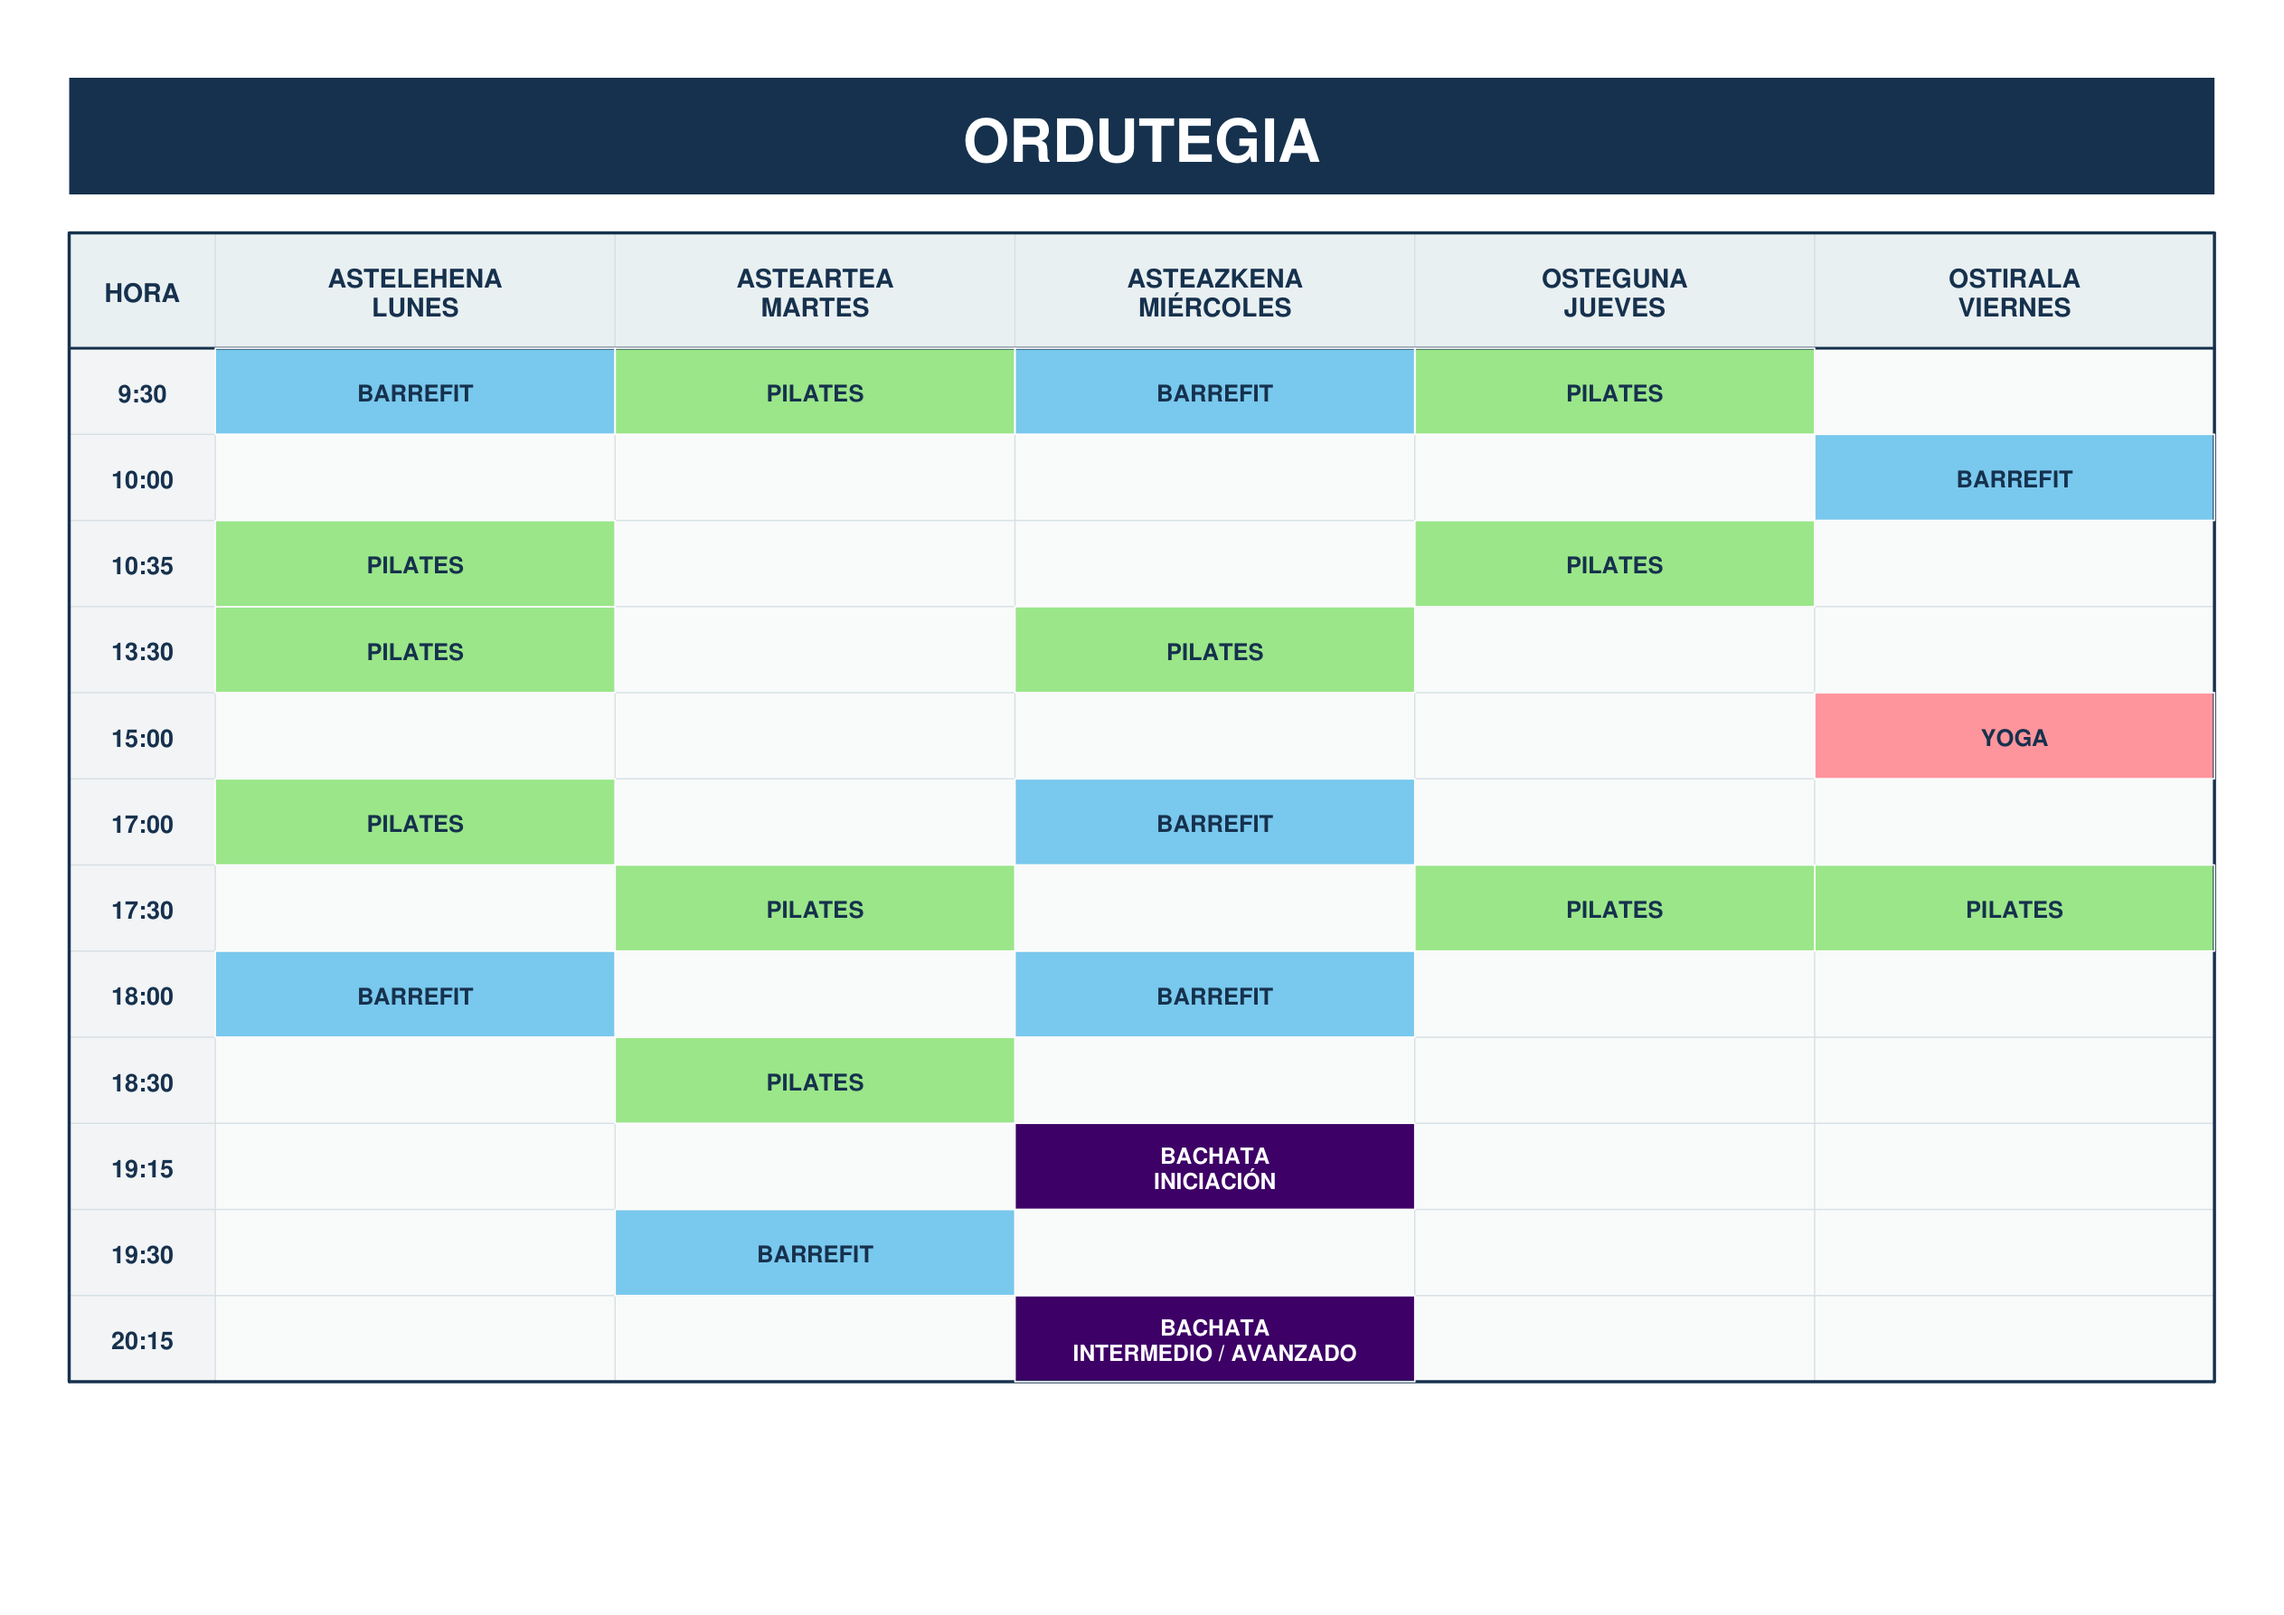
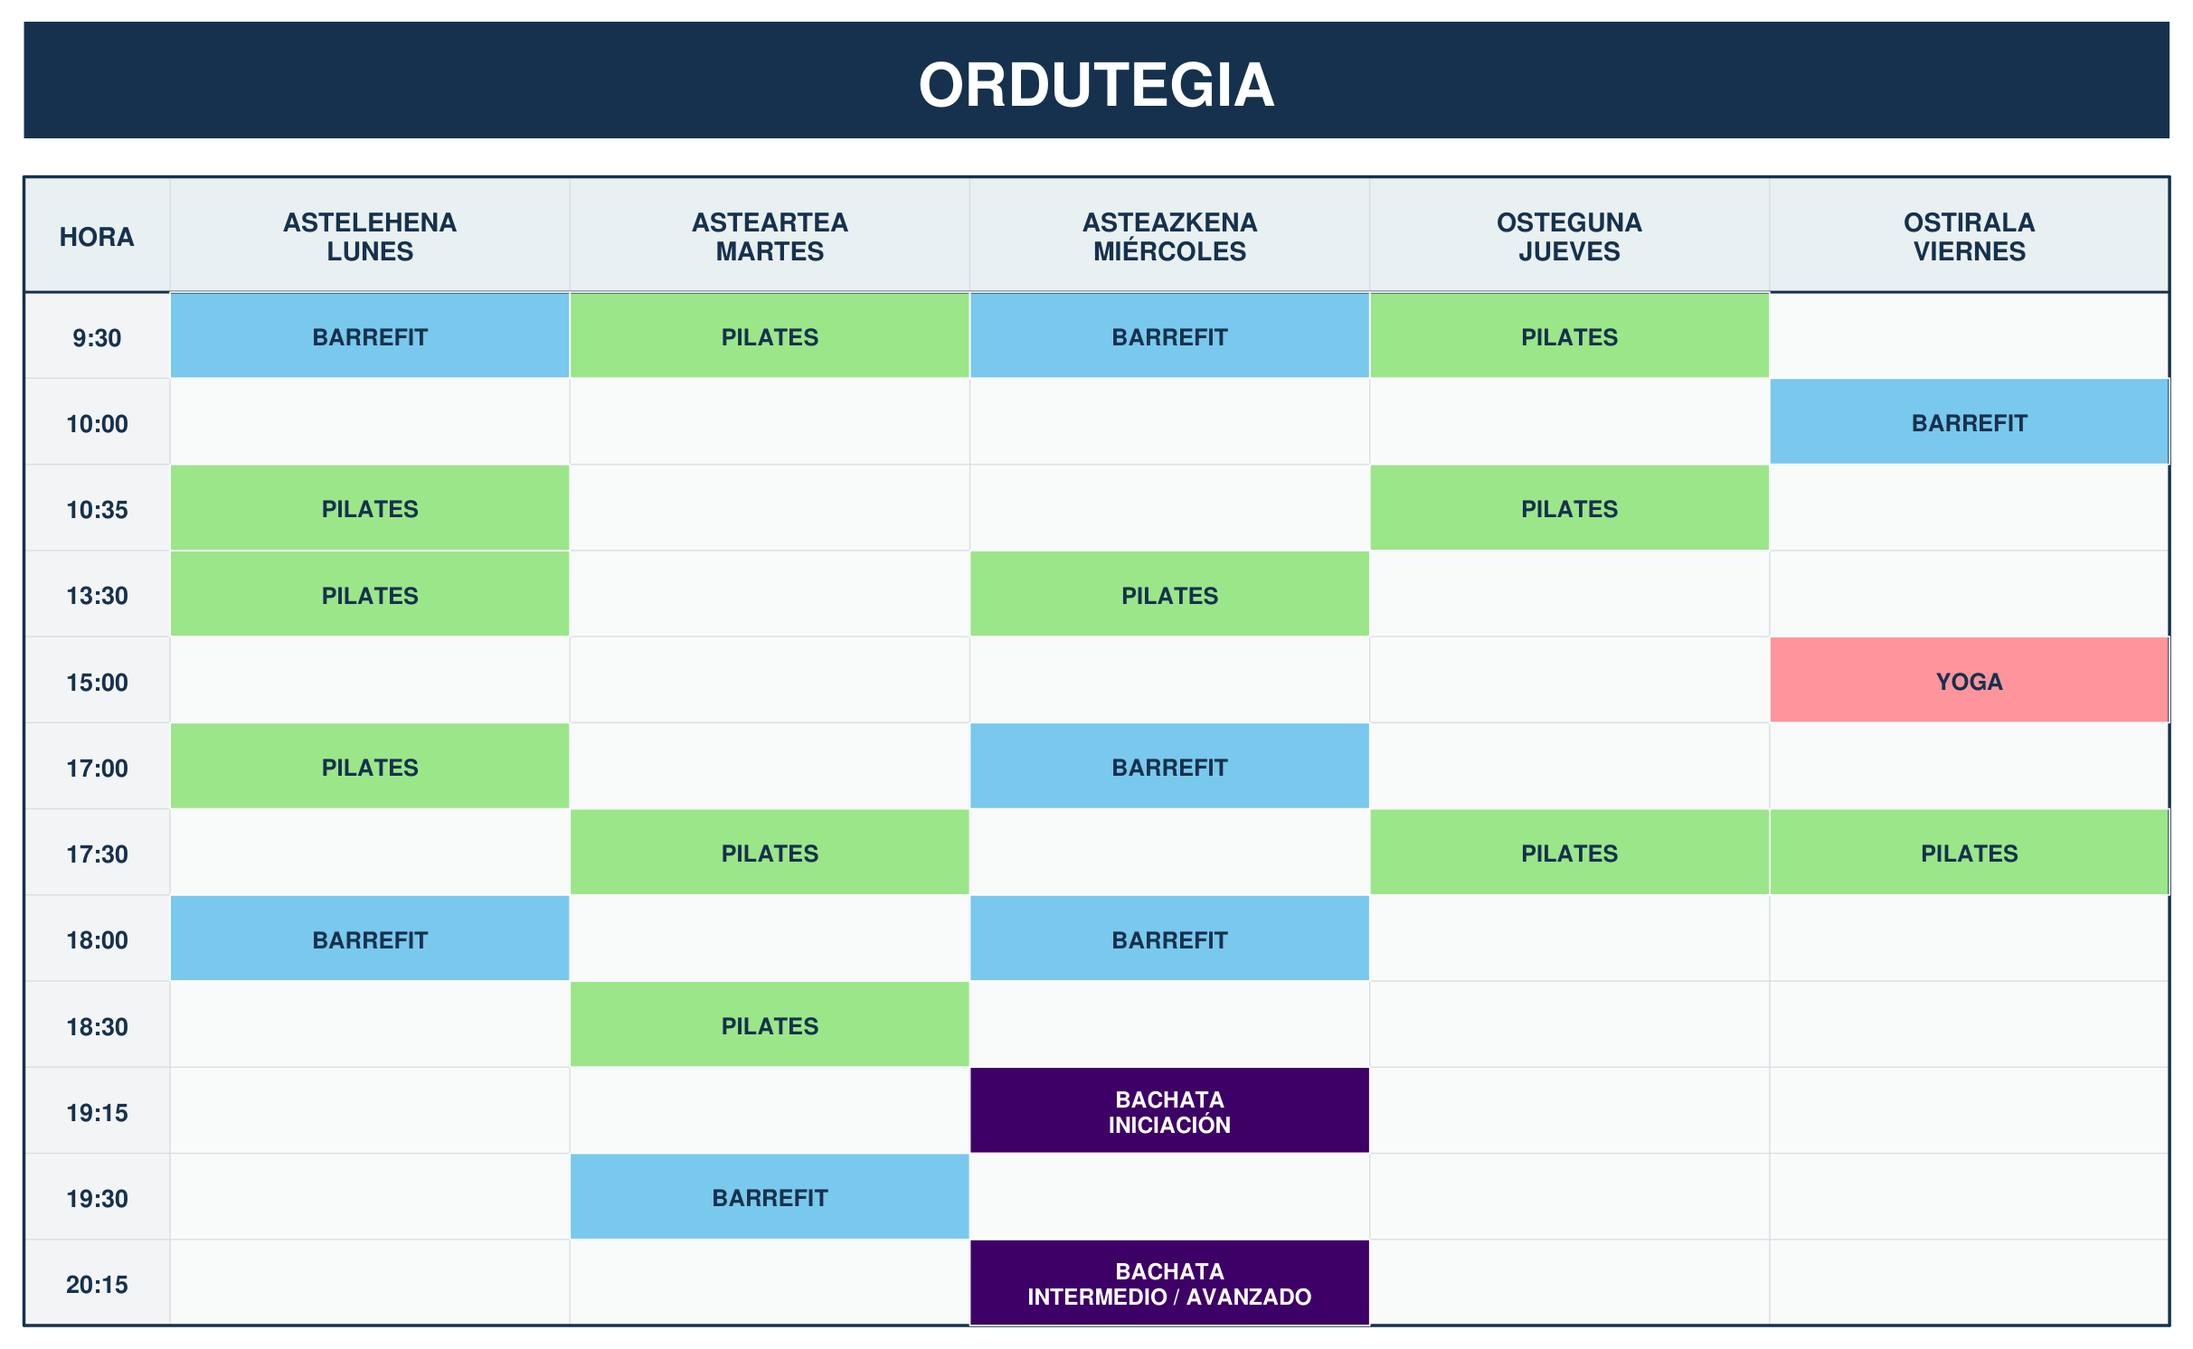
feat(horarios): visor a pantalla completa al pulsar un horario
- Nuevo ScheduleViewer: abre el horario en la misma pestana sobre un
  fondo oscurecido, a tamano maximo y sin controles de zoom
- El overlay se monta en body con un portal: dentro de la tarjeta
  quedaba atrapado por el transform de la animacion de entrada
- Cierre con la X, Escape o pulsando fuera; scroll de fondo bloqueado
- Recortados los margenes blancos de las imagenes para que el horario
  se lea mas grande

diff --git a/src/components/ui/ScheduleViewer.tsx b/src/components/ui/ScheduleViewer.tsx
@@ -1,0 +1,124 @@
+"use client";
+
+import { useCallback, useEffect, useState } from "react";
+import { createPortal } from "react-dom";
+import Image from "next/image";
+import { Maximize2, X } from "lucide-react";
+
+interface Lenis {
+  stop: () => void;
+  start: () => void;
+}
+
+export default function ScheduleViewer({
+  src,
+  alt,
+  width,
+  height,
+  hint,
+  closeLabel,
+}: {
+  src: string;
+  alt: string;
+  width: number;
+  height: number;
+  hint: string;
+  closeLabel: string;
+}) {
+  const [open, setOpen] = useState(false);
+  const [mounted, setMounted] = useState(false);
+
+  const close = useCallback(() => setOpen(false), []);
+
+  useEffect(() => setMounted(true), []);
+
+  useEffect(() => {
+    if (!open) return;
+
+    const lenis = (window as unknown as { __lenis?: Lenis }).__lenis;
+    lenis?.stop();
+    const prevOverflow = document.body.style.overflow;
+    document.body.style.overflow = "hidden";
+
+    function onKeyDown(event: KeyboardEvent) {
+      if (event.key === "Escape") close();
+    }
+    window.addEventListener("keydown", onKeyDown);
+
+    return () => {
+      window.removeEventListener("keydown", onKeyDown);
+      document.body.style.overflow = prevOverflow;
+      lenis?.start();
+    };
+  }, [open, close]);
+
+  // El overlay se monta en <body>: dentro de la tarjeta quedaría atrapado por
+  // el transform de la animación de entrada y no cubriría la pantalla.
+  const overlay = (
+    <div
+      onClick={close}
+      className="animate-fade-in fixed inset-0 z-[100] flex flex-col bg-black/92 backdrop-blur-md"
+    >
+      <div className="flex shrink-0 items-center justify-between gap-4 px-4 py-3 sm:px-6">
+        <p className="truncate font-heading text-sm font-medium text-white/85 md:text-base">
+          {alt}
+        </p>
+        <button
+          type="button"
+          onClick={(event) => {
+            event.stopPropagation();
+            close();
+          }}
+          aria-label={closeLabel}
+          className="flex h-10 w-10 shrink-0 items-center justify-center rounded-full border border-white/20 text-white/70 transition-colors hover:border-white/40 hover:bg-white/10 hover:text-white"
+        >
+          <X size={20} />
+        </button>
+      </div>
+
+      <div
+        role="dialog"
+        aria-modal="true"
+        aria-label={alt}
+        onClick={(event) => event.stopPropagation()}
+        className="flex min-h-0 flex-1 items-center justify-center overflow-auto px-2 pb-4 sm:px-6 sm:pb-6"
+      >
+        <Image
+          src={src}
+          alt={alt}
+          width={width}
+          height={height}
+          sizes="100vw"
+          priority
+          className="max-h-full w-full rounded-lg bg-white object-contain shadow-[0_40px_120px_rgba(0,0,0,0.6)]"
+        />
+      </div>
+    </div>
+  );
+
+  return (
+    <>
+      <button
+        type="button"
+        onClick={() => setOpen(true)}
+        title={hint}
+        className="group relative block w-full overflow-hidden rounded-2xl border border-border bg-white shadow-[0_18px_50px_rgba(10,10,10,0.08)] transition-shadow duration-300 hover:shadow-[0_24px_70px_rgba(10,10,10,0.14)] focus-visible:outline-none focus-visible:ring-2 focus-visible:ring-accent focus-visible:ring-offset-2"
+      >
+        <Image
+          src={src}
+          alt={alt}
+          width={width}
+          height={height}
+          sizes="(max-width: 1280px) 100vw, 1280px"
+          className="h-auto w-full"
+        />
+        <span className="pointer-events-none absolute right-4 top-4 flex items-center gap-2 rounded-full bg-primary/85 px-3.5 py-2 text-xs font-medium text-white opacity-0 backdrop-blur-sm transition-opacity duration-300 group-hover:opacity-100">
+          <Maximize2 size={14} />
+          {hint}
+        </span>
+      </button>
+
+      {mounted && open && createPortal(overlay, document.body)}
+    </>
+  );
+}

diff --git a/src/app/[locale]/horarios/page.tsx b/src/app/[locale]/horarios/page.tsx
@@ -1,7 +1,7 @@
 import { getTranslations, setRequestLocale } from "next-intl/server";
-import Image from "next/image";
 import { Download } from "lucide-react";
 import ScrollReveal from "@/components/ui/ScrollReveal";
+import ScheduleViewer from "@/components/ui/ScheduleViewer";
 
 export const revalidate = 3600;
 
@@ -10,8 +10,8 @@ const SCHEDULES = [
     key: "gelas",
     image: "/media/horarios/ordutegia-gelas-v2.png",
     pdf: "/media/horarios/ordutegia-gelas-v2.pdf",
-    width: 3572,
-    height: 2526,
+    width: 3418,
+    height: 1985,
     labelEs: "Salas 1 y 2 · Fitness & Dantza",
     labelEu: "1. eta 2. gelak · Fitness & Dantza",
   },
@@ -19,8 +19,8 @@ const SCHEDULES = [
     key: "clases",
     image: "/media/horarios/ordutegia-clases.png",
     pdf: "/media/horarios/ordutegia-clases.pdf",
-    width: 2526,
-    height: 1786,
+    width: 2425,
+    height: 1492,
     labelEs: "BarreFit · Pilates · Yoga · Bachata",
     labelEu: "BarreFit · Pilates · Yoga · Bachata",
   },
@@ -114,29 +114,21 @@ export default async function HorariosPage({
                 </a>
               </div>
 
-              <a
-                href={schedule.image}
-                target="_blank"
-                rel="noopener noreferrer"
-                title={locale === "eu" ? "Handiago ikusi" : "Ver a tamaño completo"}
-                className="block overflow-hidden rounded-2xl border border-border bg-white shadow-[0_18px_50px_rgba(10,10,10,0.08)] transition-shadow duration-300 hover:shadow-[0_24px_70px_rgba(10,10,10,0.14)]"
-              >
-                <Image
-                  src={schedule.image}
-                  alt={locale === "eu" ? schedule.labelEu : schedule.labelEs}
-                  width={schedule.width}
-                  height={schedule.height}
-                  sizes="(max-width: 1280px) 100vw, 1280px"
-                  className="h-auto w-full"
-                />
-              </a>
+              <ScheduleViewer
+                src={schedule.image}
+                alt={locale === "eu" ? schedule.labelEu : schedule.labelEs}
+                width={schedule.width}
+                height={schedule.height}
+                hint={locale === "eu" ? "Handiago ikusi" : "Ver más grande"}
+                closeLabel={locale === "eu" ? "Itxi" : "Cerrar"}
+              />
             </ScrollReveal>
           ))}
 
           <p className="text-center text-sm text-muted-foreground">
             {locale === "eu"
-              ? "Sakatu ordutegi bat handiago ikusteko."
-              : "Pulsa sobre un horario para verlo a tamaño completo."}
+              ? "Sakatu ordutegi baten gainean handiago ikusteko."
+              : "Pulsa sobre un horario para verlo más grande."}
           </p>
         </div>
       </section>
